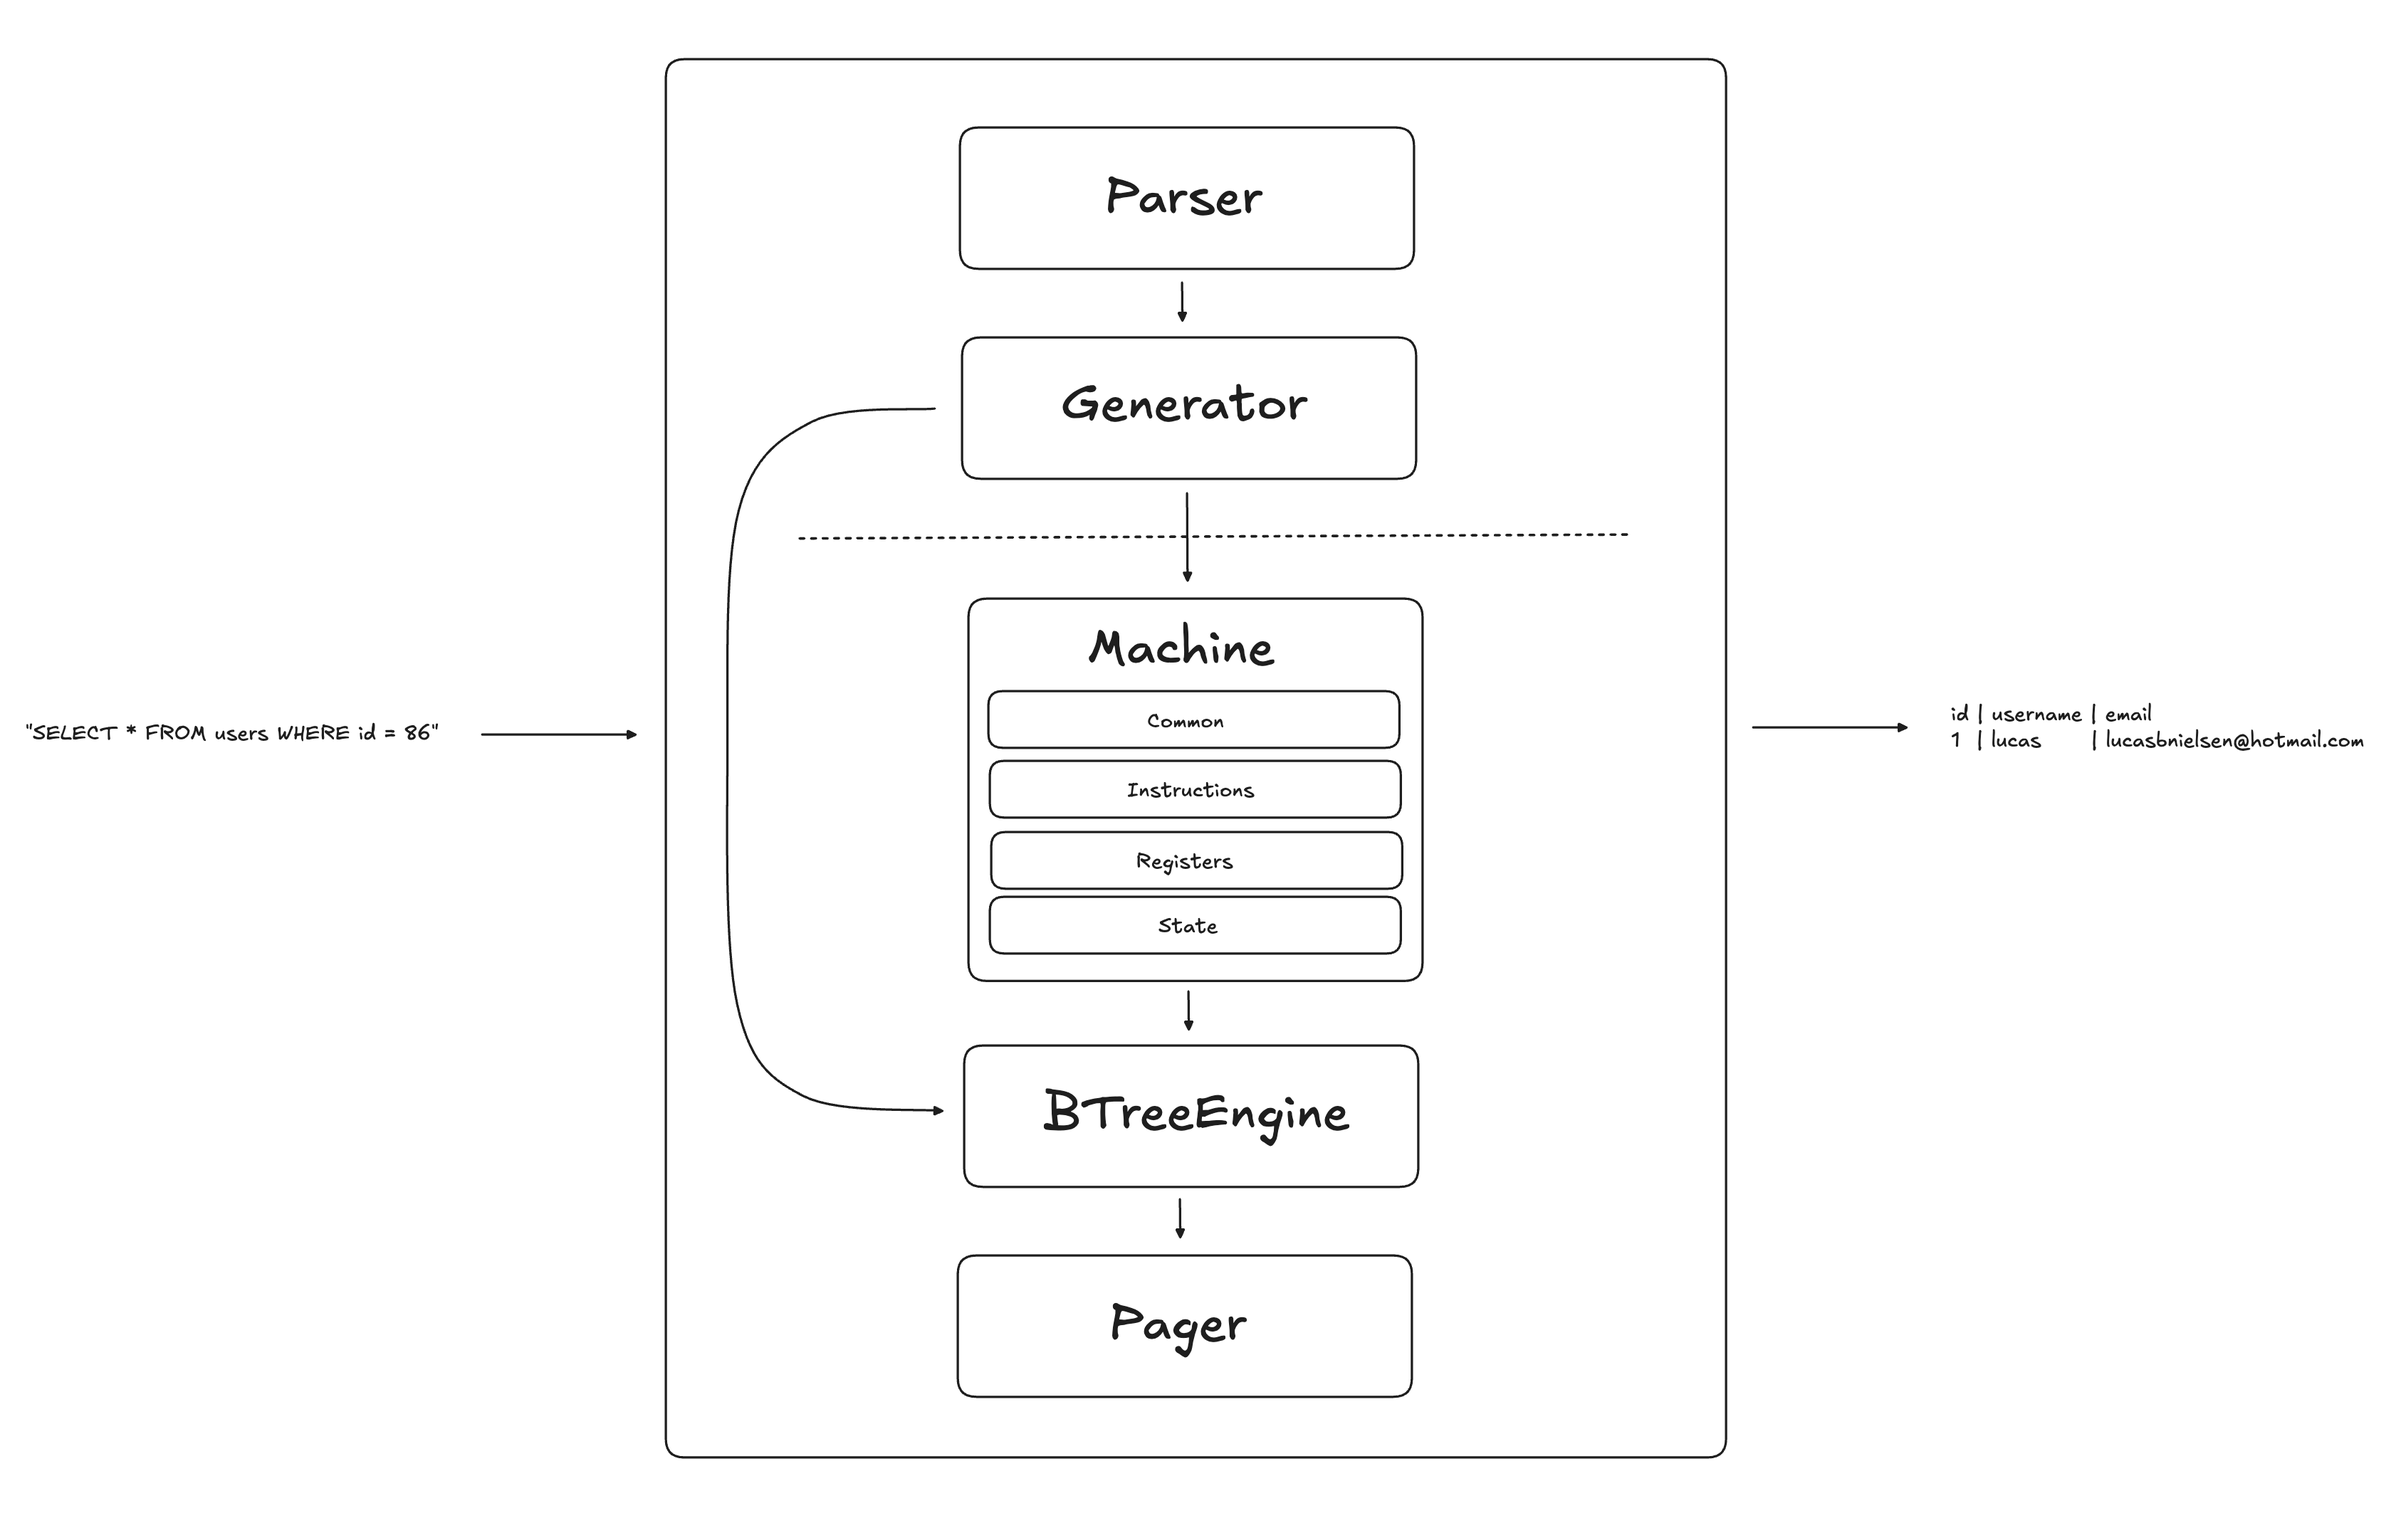
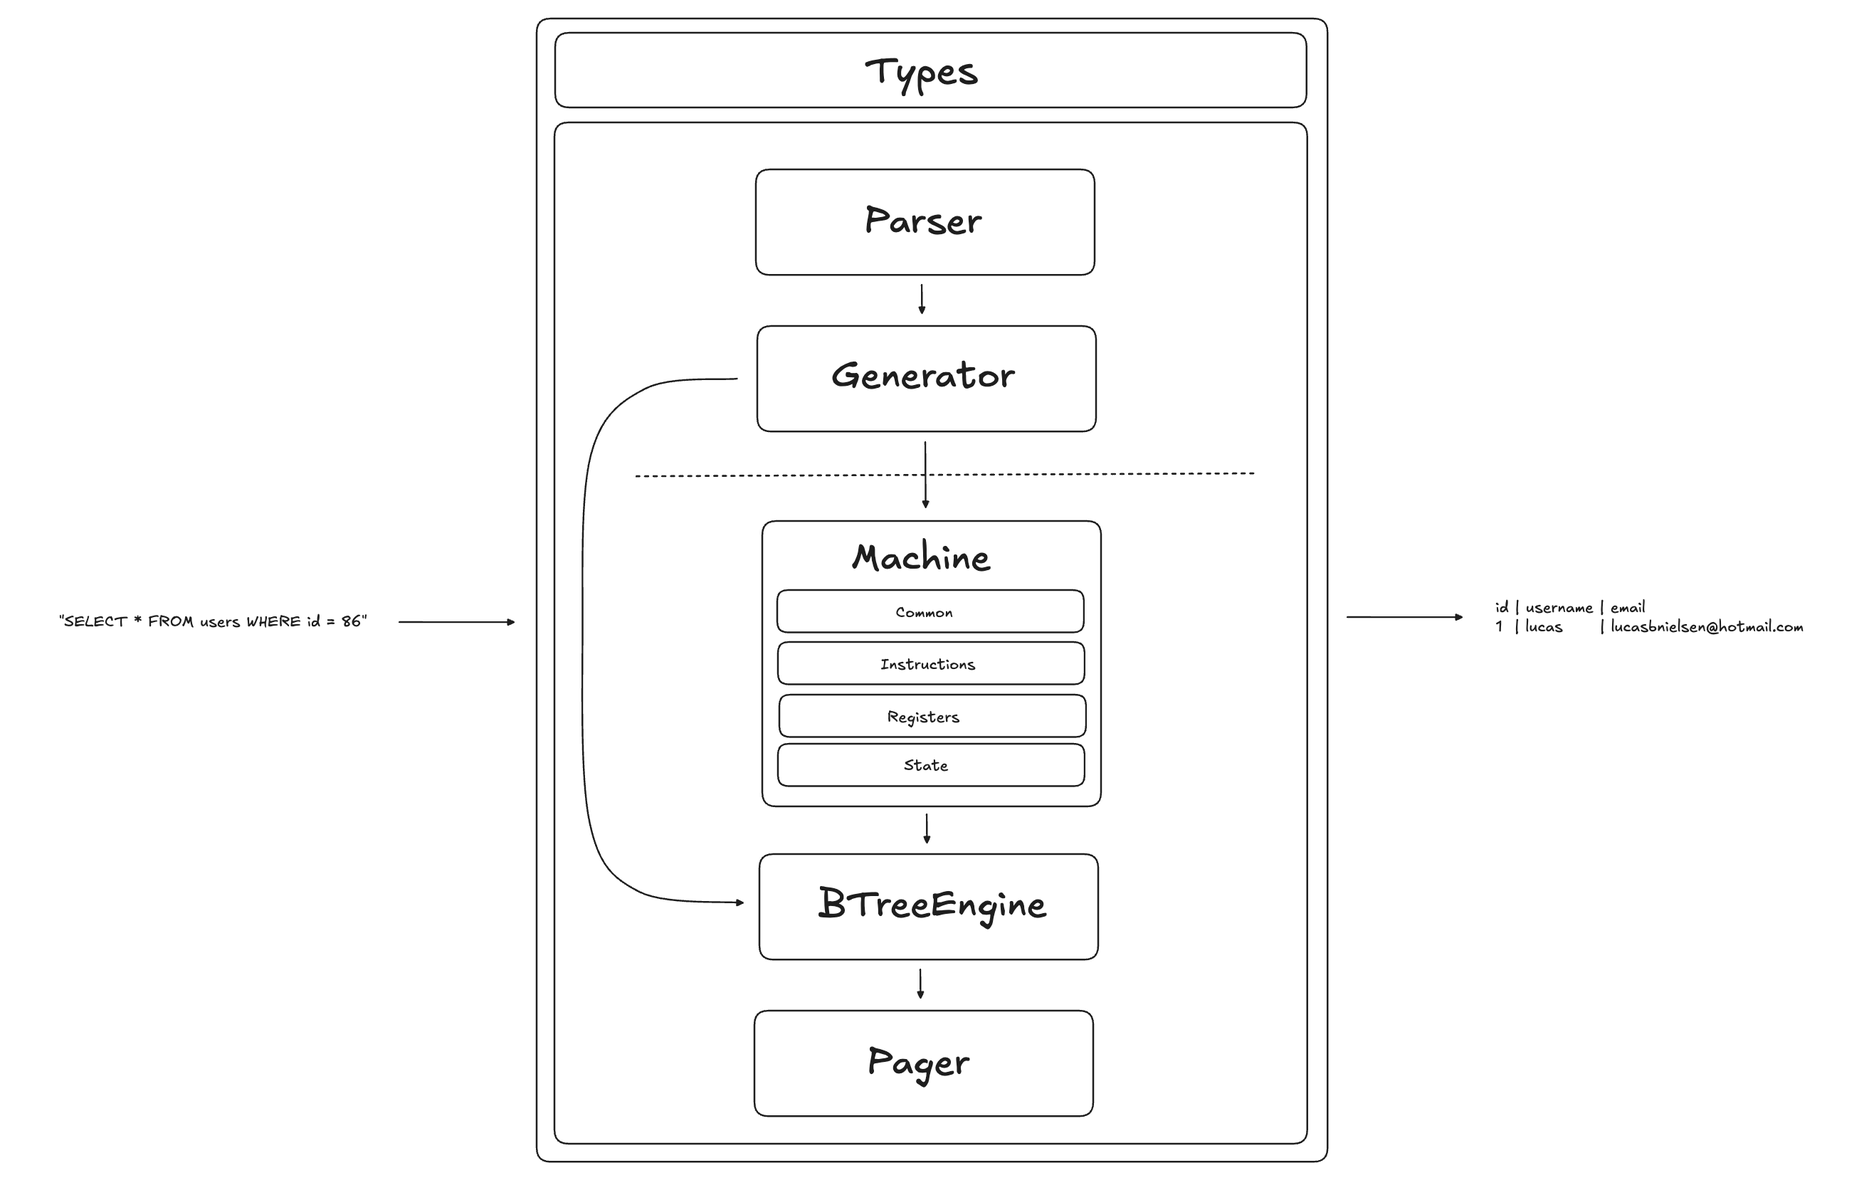
Add resultTypeConstructor/Entry explanation to README

diff --git a/README.md b/README.md
@@ -40,6 +40,30 @@ details of any other layers.
 In the future, I'd like to potentially create different implementations of some
 layers and figure out a way to profile them (i.e compare CPU and memory usage).
 
+There is a global package for `types` which contains an `Entry` which is a union
+of a `null` value, a `string` and a `int`. These are the types of values that can
+be stored in the database, which is a detail that only the `BTreeEngine` really
+needs to be concerned with.
+
+Therefore, we can initialise the `Machine` with a generic type `T` which represents
+the 'output' type of the machine - the `Machine` can take any type here. However,
+the `BTreeEngine` takes a generic type `T` that conforms to the following interface:
+
+```go
+type resultTypeConstructor[T any] interface {
+    Number(uint64) T
+    Text(string) T
+    Null() T
+}
+```
+
+This is the `BTreeEngine`'s way of saying 'I need you to provide me a type that
+knows how to construct a `T` of of all of the values that I store'.
+
+The intention here is to ensure that all layers are independent entities that don't
+rely on external packages - they are valid packages in isolation that fulfill their
+single responsiblity.
+
 ### Layer 1: Pager
 
 The pager is responsible for efficiently reading and writing pages to/from a file,
@@ -80,7 +104,28 @@ functional system.
 
 ### Layer 2: BTreeEngine
 
-TODO
+The BTreeEngine is responsible for providing an interface for callers to interact
+with B-Tree structures encoded by the database file.
+
+```go
+type BTreeEngine[T any] interface {
+    NewCursor(id uint64, rootPageNum uint64) (bool, error)
+    RewindCursor(id uint64) (bool, error)
+    AdvanceCursor(id uint64) (bool, error)
+    ReadColumn(id uint64, column uint64) (T, error)
+}
+```
+
+This is done through 'cursors' which are pointers to a particular entry in a
+B-Tree.
+
+When a cursor is initialised with `NewCursor()` it points to the first byte on
+the root page, and is set to point at the first B-Tree entry via the `RewindCursor()`
+function. `AdvanceCursor()` moves the cursor along to the next entry, and `ReadColumn()`
+reads a particular column in the entry that is currently being pointed to.
+
+This is the only layer that knows about the SQLite3 file format, which means that
+this is the only layer that would need to change if the file format were to change.
 
 ### Layer 3: Machine
 
